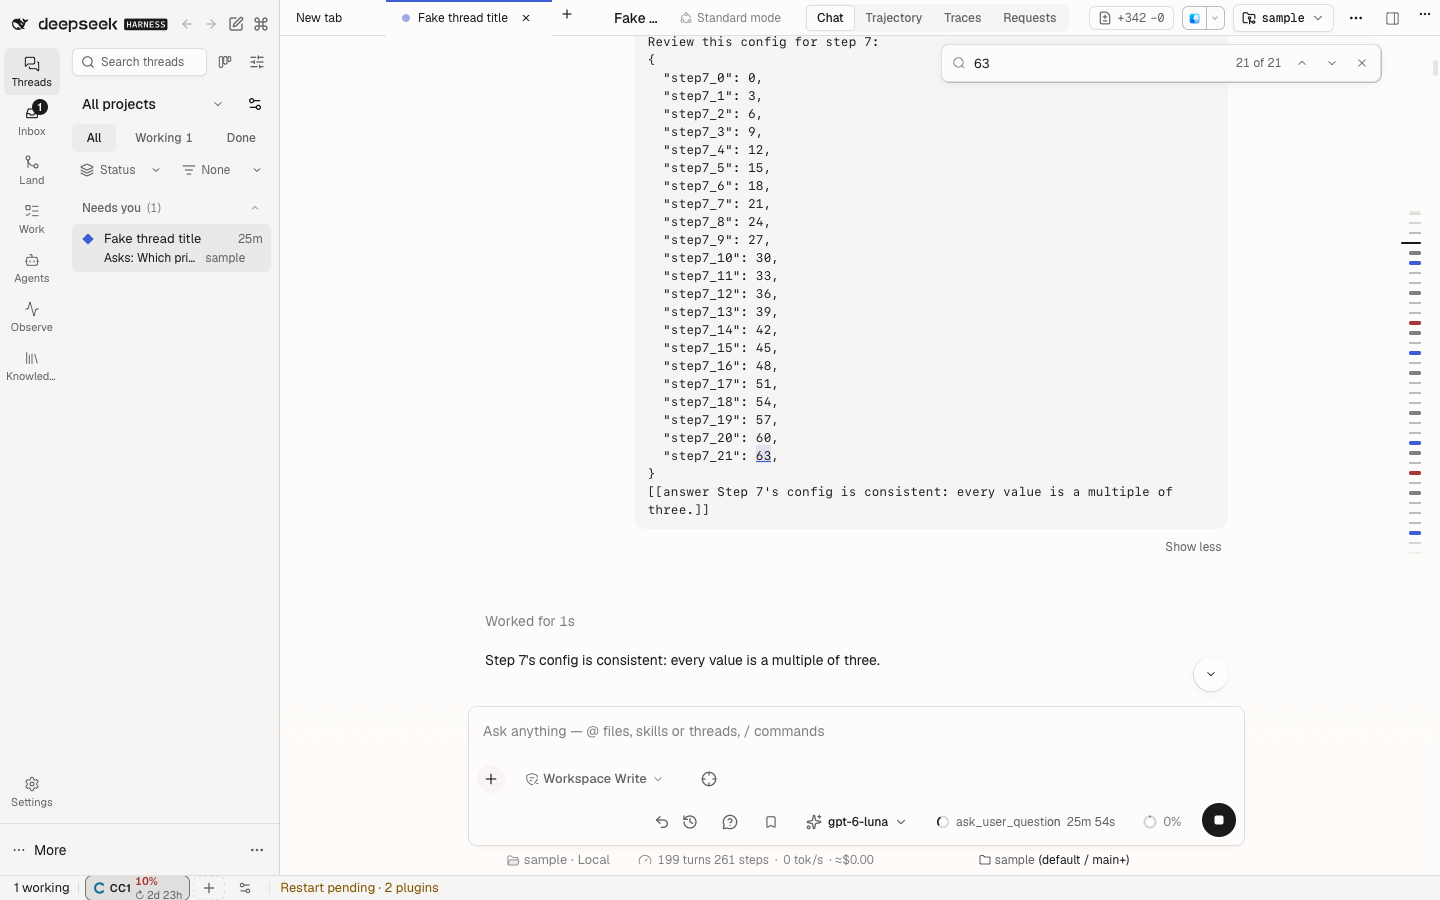
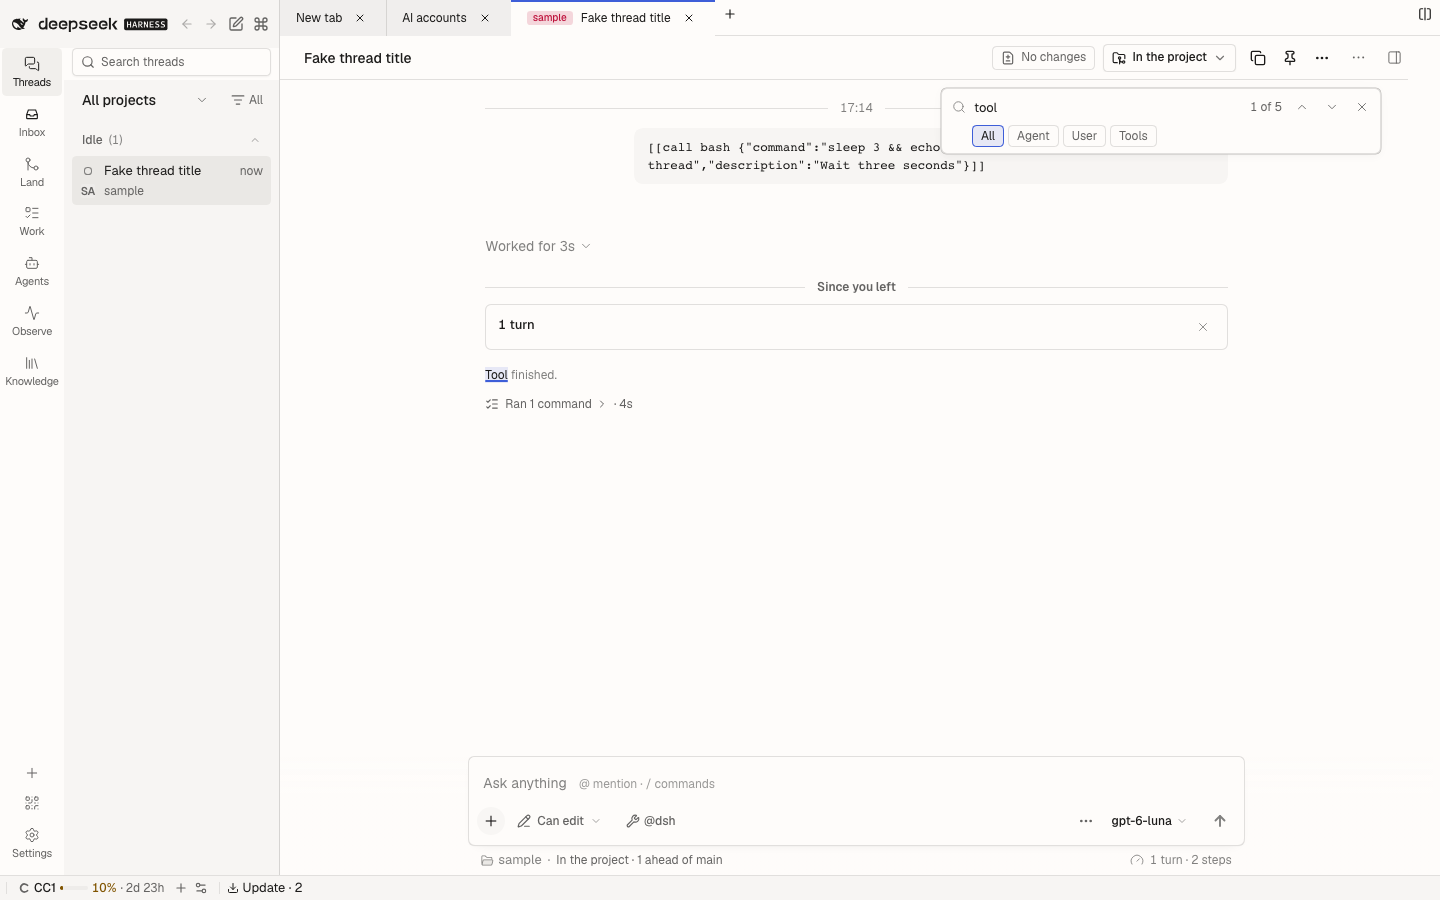
docs(chat,session-search): document thread find filters
The filter chips changed the find bar's controls and findInThread's
contract without touching the docs: Chat's README had no find section
(session-search linked to a missing anchor), the fork's local-delta table
did not list the change, and the feature catalog did not name the new
states or tests. Add the find section, the delta row, the `types` bullet,
and the catalog's summary, filtered-here state, failure mode and unit-test
references; refresh the find-in-thread screenshot.

diff --git a/plugins/@dshfiles/chat/README.md b/plugins/@dshfiles/chat/README.md
@@ -106,6 +106,27 @@ Every other vendored file is byte-identical to the pinned revision.
 | `src/native/unread-landing.ts`, `src/native/settings/UnreadLandingRow.tsx`, `chat-settings.ts` (also), `host.ts` (also), `apply.ts` (also), `slots.ts` (also), `ChatNodeSeat.tsx` (also), `use-chat-viewport.ts` (also), `use-chat-scroll.ts` (also), `ChatView.tsx` (also), `ChatView.module.css` (also), `locale.ts` (also) | new: open an unread thread at its final answer (below): the `unreadLanding` volatile setting and its General row, a per-browser seen-answer memory, `data-chat-final-answer` on the latest settled answer row, and the first-open landing with its New divider |
 | `src/native/chat/MessageIconActions.tsx` (also) | the copy, branch and `⋯` tooltips pass `portal`: inside a Workbench pane (`contain: layout paint`) an inline `position: fixed` tooltip lands offset by the pane's origin (b:d5wg) |
 | `src/turn-admission-panel.tsx`, `src/client-entry.tsx` (also) | new: the Settings › General **Running threads limit** row and the composer's **Waits to start** notice for `@dshfiles/session-controller`'s running-thread limit (see its README) |
+| `src/native/chat/ThreadFindBar.tsx` (also), `ThreadFindBar.module.css` (also), `thread-find-model.ts` (also), `find-reveal.ts` (also), `src/thread-find-port.ts` (also), `src/native/locale.ts` (also) | the find bar's **All / Agent / User / Tools** filter chips (below): `types` on session-search's `findInThread`, the same filter on the loaded-window fallback by `data-chat-flow-kind`, and a browser-side filter with a note when the Host predates `types` |
+
+### Find in thread
+
+⌘F in a thread (or **Find in thread** in its `⋯` menu on a phone) opens a find bar over the transcript. It asks
+`@dshfiles/session-search`'s `findInThread` for the newest 500 matches in the whole thread, counts them from the
+newest ("3 of 12", "500+" past the cap), steps with ↵ (older) and ⇧↵ (newer), pages an unloaded Turn in, opens the fold
+that hides a match and highlights it. Esc closes it from the field or any of its buttons.
+
+The chips under the field narrow the matches: **All** (default) searches every indexed event, **Agent** assistant
+replies, **User** prompts, **Tools** tool calls and results. Agent, User and Tools combine; selecting all three is the
+same as All. The filter runs in the index before the 500-match cap, so tool output no longer crowds out what the agent
+wrote.
+
+- Without session-search (or before a thread is indexed) the bar searches the loaded Turns, chips included, and says
+  so.
+- A session-search Host started before the filters existed refuses `types`. The bar then asks without them, filters the
+  newest 500 matches in the browser and says that older filtered matches may be missing: update
+  `@dshfiles/session-search` and restart DSH to filter the whole thread.
+
+The filter lives in the open bar only: closing it resets to All.
 
 ### Open an unread thread at its final answer
 

diff --git a/plugins/@dshfiles/session-search/README.md b/plugins/@dshfiles/session-search/README.md
@@ -62,6 +62,10 @@ in seq order, with a short snippet:
 - The default limit is 200 and the most is 1 000; `hasMore` says when a thread has more.
 - `newest: true` keeps the newest `limit` matches instead of the oldest (still in seq order): Chat's find bar starts
   from the tail, so it asks for the newest 500.
+- `types` (1 to 16 event types, ORed) keeps only those events, before `limit` applies: `["assistant/message"]`,
+  `["user/message"]`, `["tool/call", "tool/result"]`. A filter of user and assistant messages only reads the
+  conversation table once it is backfilled. Omitting `types` matches every indexed type. A Host older than `types`
+  rejects the key (dshx decodes input strictly); Chat's find bar then filters the newest matches itself.
 - An archived Session is indexed for that request, as a targeted search is.
 - A match is one event: several hits inside one tool output count once. Core's text extraction leaves model thinking
   out of the index, and tool payloads are capped at 8 KB per event, so neither a thought nor a hit past that cap is
